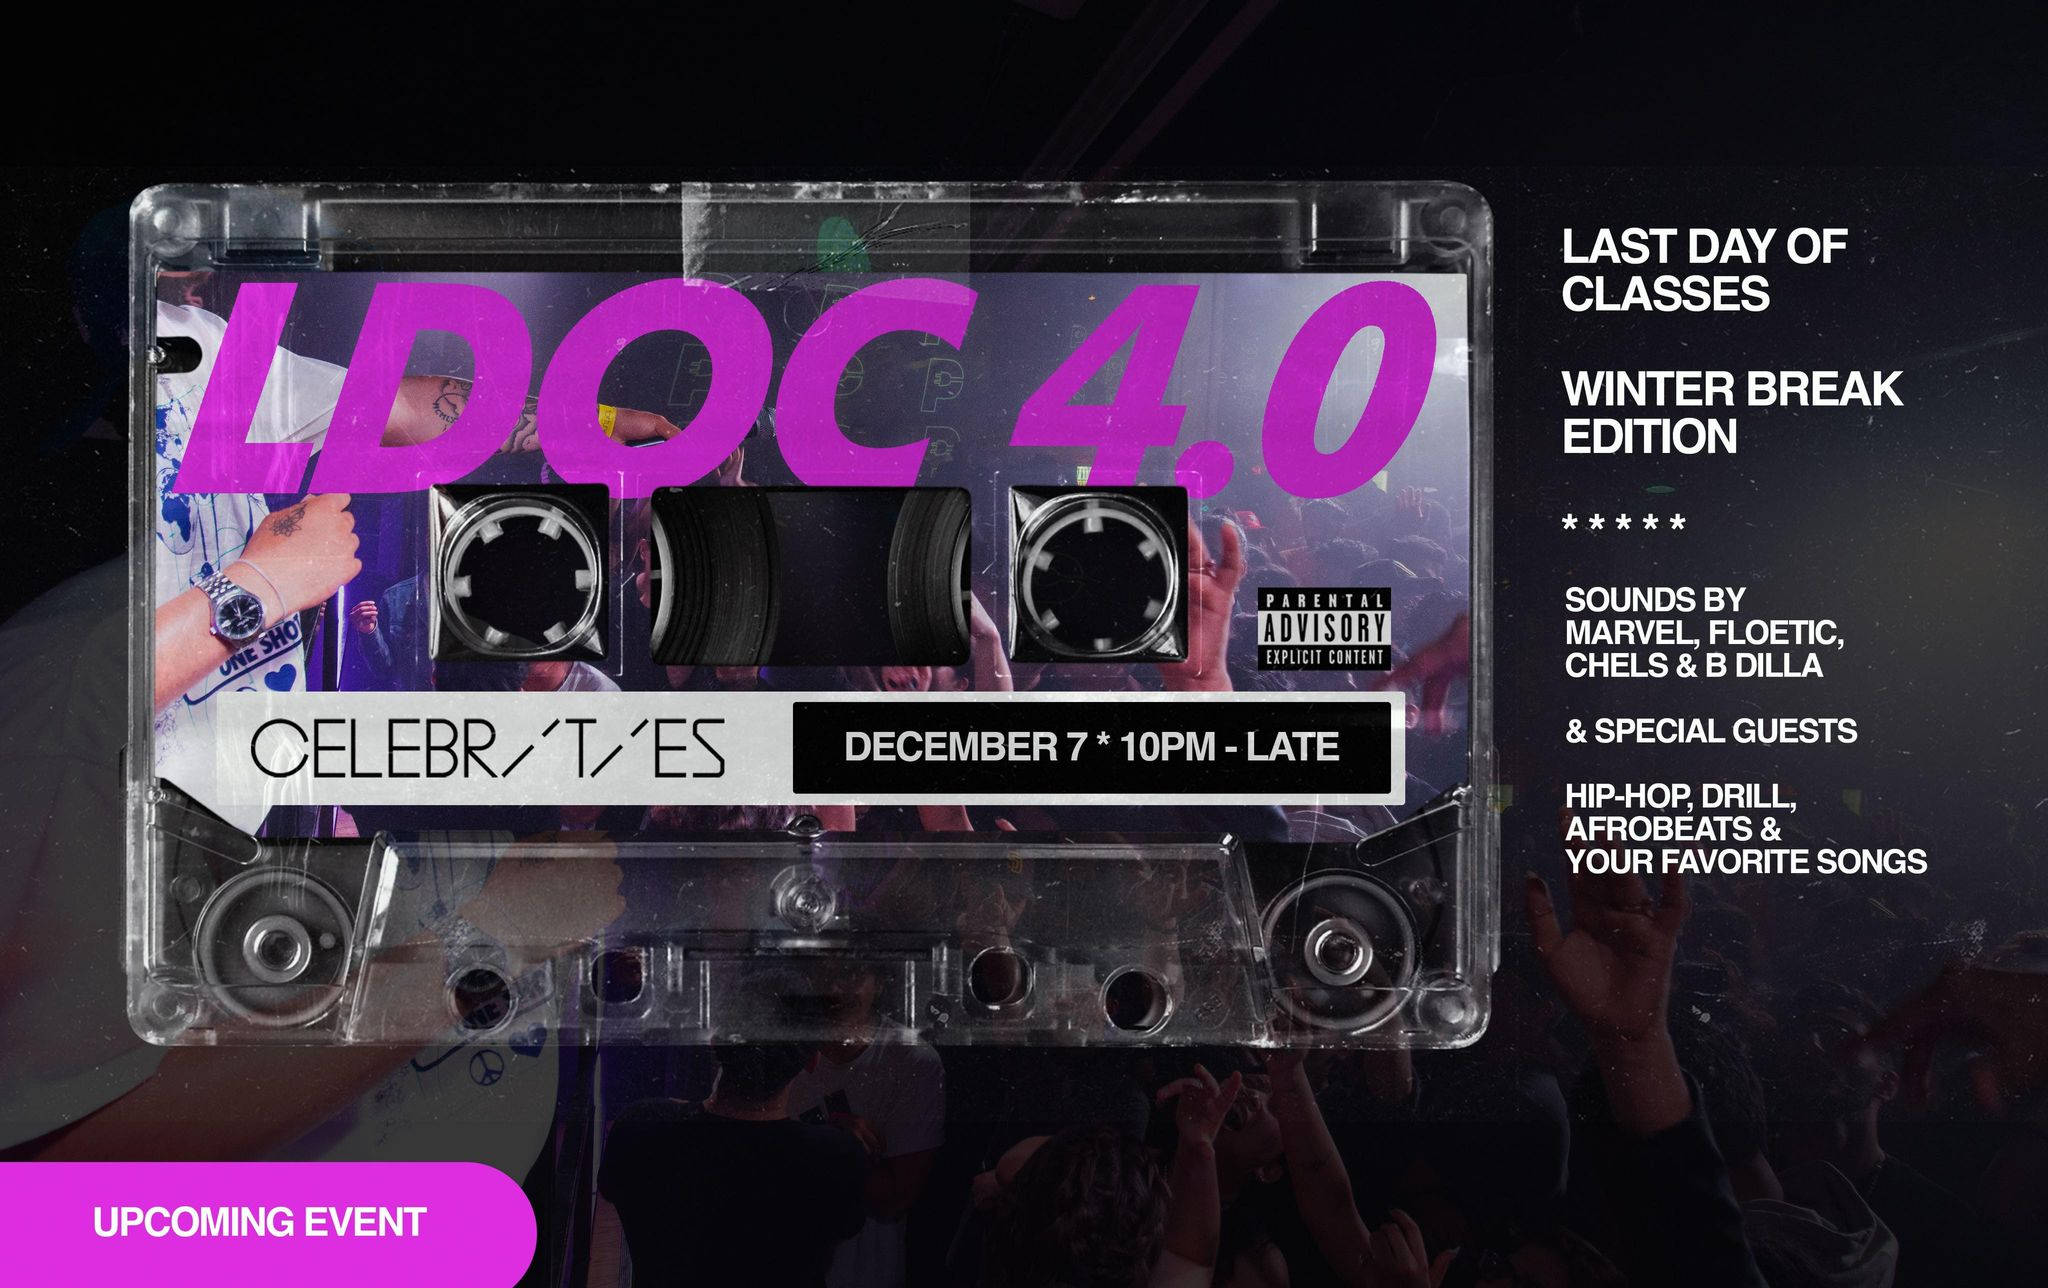
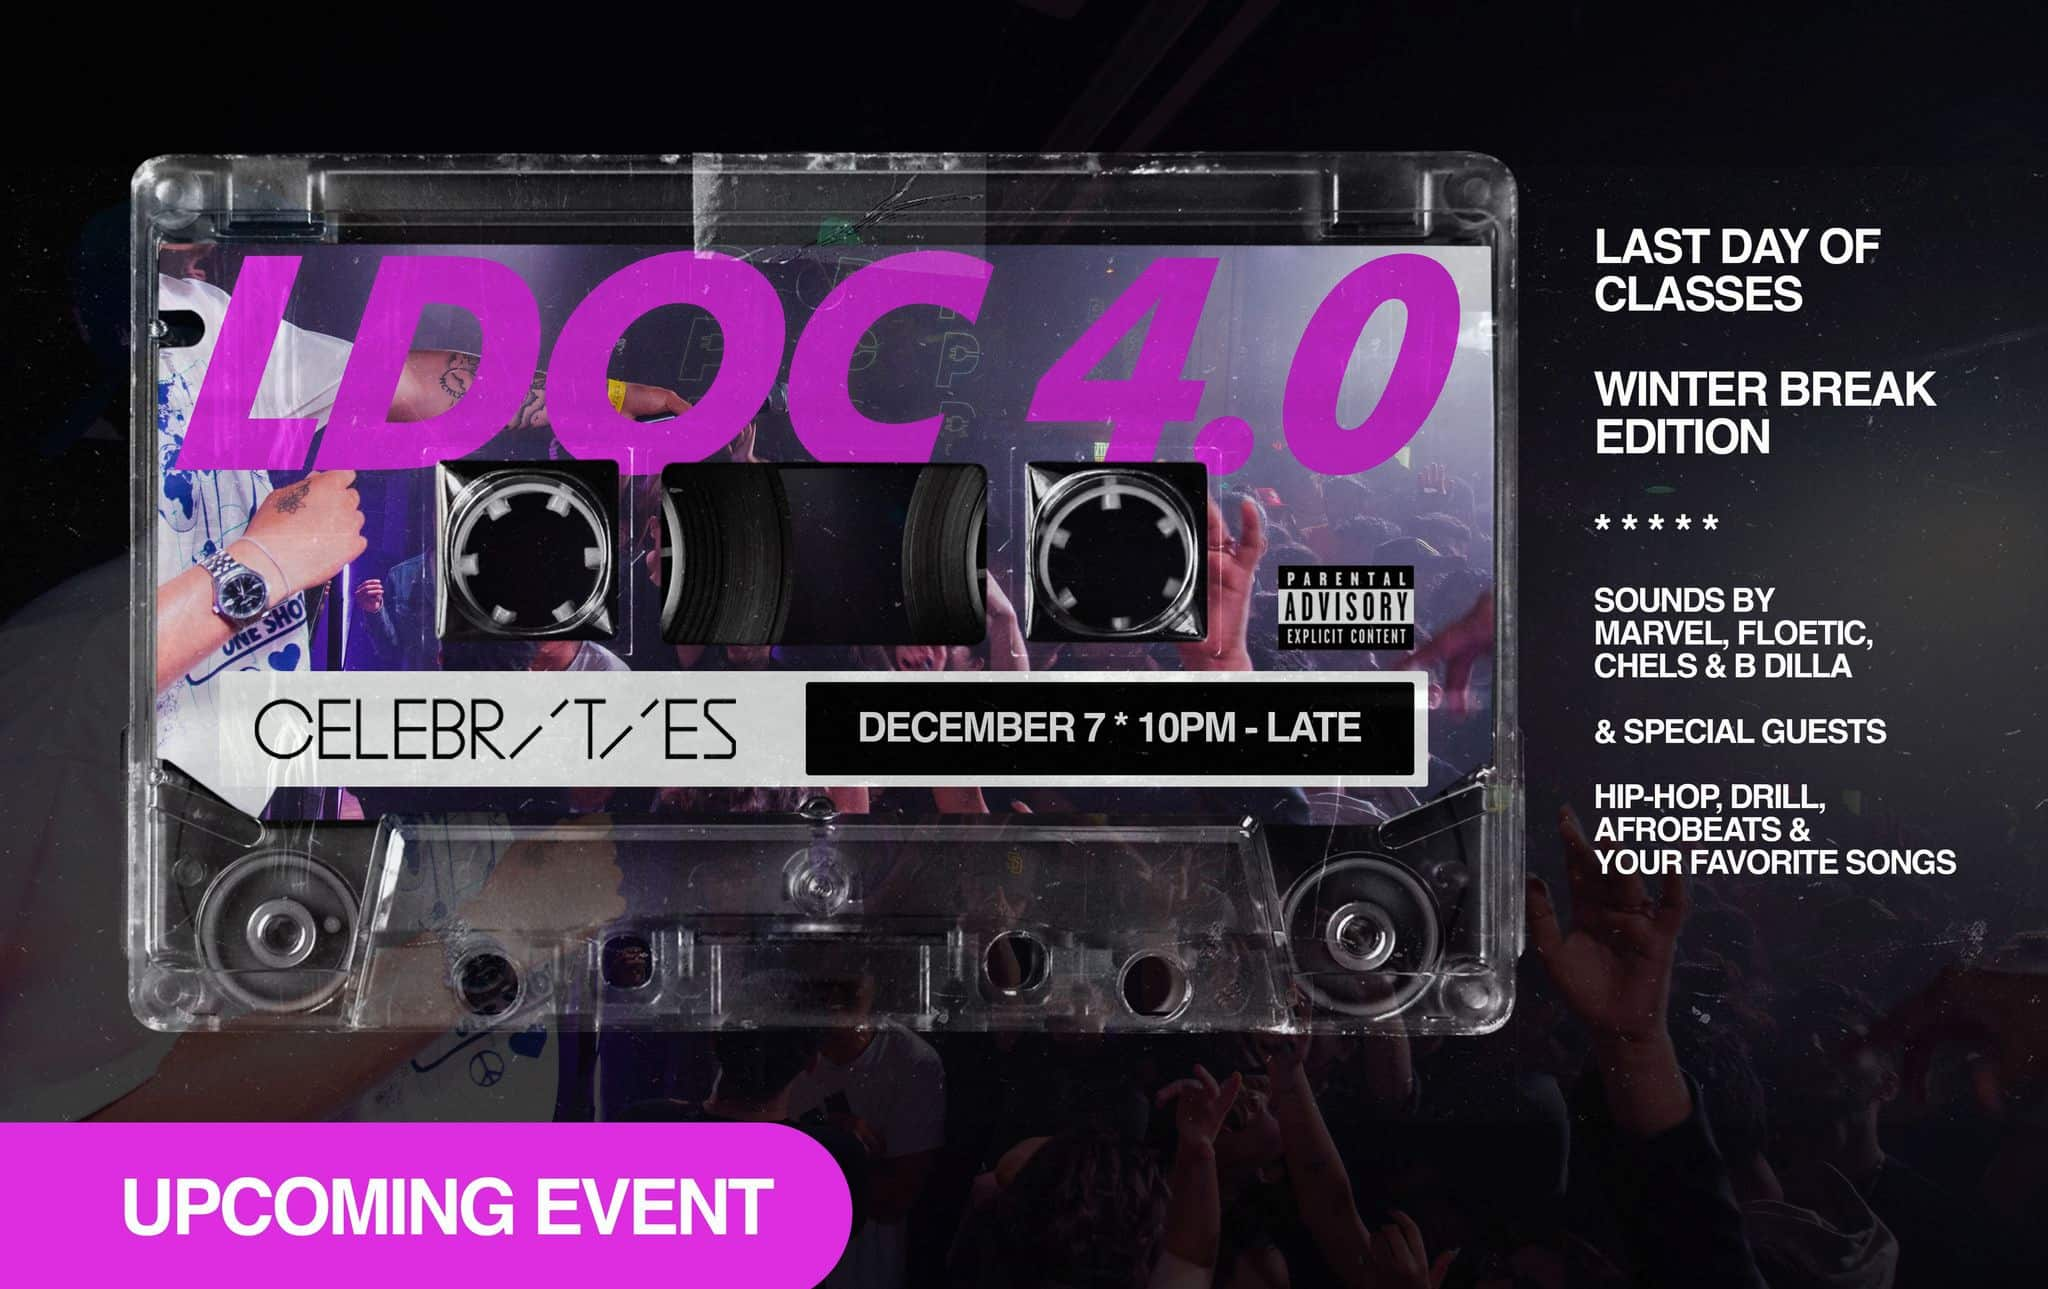
added cover image for about page

Changed region(s): [[0.0625, 0.0932, 0.9688, 0.8385], [0.0, 0.8696, 0.4375, 1.0]]

diff --git a/plug-website/src/subpages/About.js b/plug-website/src/subpages/About.js
@@ -37,26 +37,17 @@ const AboutPage = () => {
 
   return (
     <div className="flex justify-center">
-      <div className="text-center">
-        {/* <h1 className="my-6 text-black text-center text-5xl italic font-bold">
-          ABOUT
-        </h1> */}
-
-        {/* <div className="wb-strip mb-4 h-[200px] sm:h-[350px] lg:h-[500px]">
-          <img
-            className="about-strip-image"
-            src={require("../images/about-strip.png")}
-            alt="crowd"
-          />
-
-          <h2 className="wb-strip-text top-8 text-2xl font-bold lg:mt-24">
-            a blurb about what we do, our mission, and something that sparks
-            interest - like a fact!
-          </h2>
-        </div> */}
-      </div>
-
       <div className="about-container">
+        <div className="text-center">
+          <div className="wb-strip mb-4 h-full sm:h-[450px] lg:h-[750px] lg:my-12">
+            <img
+              className="about-strip-image"
+              src={require("../images/plugmobile.jpg")}
+              alt="crowd"
+            />
+          </div>
+        </div>
+
         <h1 className="mt-4 md:mt-8 mb-8 text-black text-center text-[40px] md:text-6xl italic font-bold">
           UBC BORN. VANCOUVER BRED.
         </h1>
